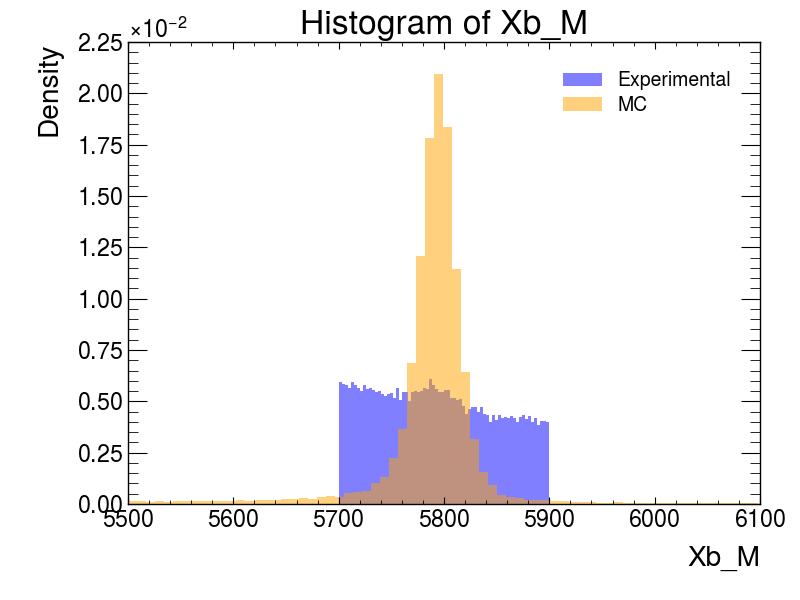
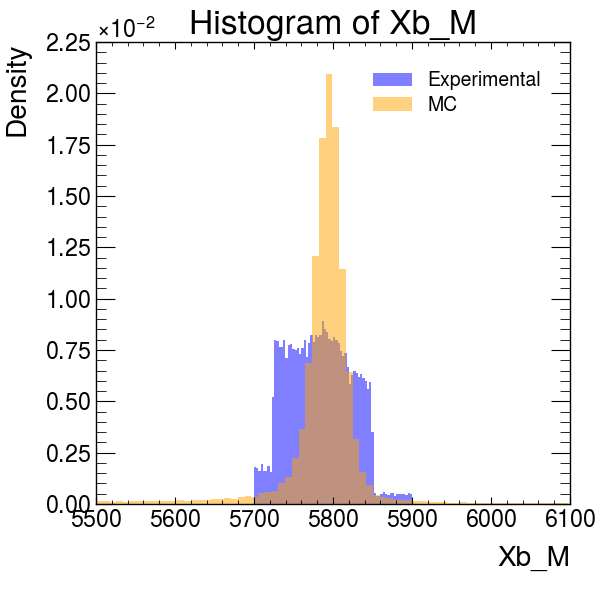
some attempts at BDT denoising

diff --git a/src/main.py b/src/main.py
@@ -5,6 +5,7 @@ import src.visualisation as vis
 import numpy as np
 import matplotlib.pyplot as plt
 import mplhep
+import src.utils as utils
 from sklearn.ensemble import GradientBoostingClassifier
 from sklearn.metrics import auc, roc_curve
 from sklearn.model_selection import KFold
@@ -51,6 +52,7 @@ def main(argv=None):
     if args.plot:
         vis.plot_var_comparison(curr_var, bkg_df, mc_df)
 
+    utils.print_tree_variables(dl.EXP_FILE, dl.EXP_TREE)
     # define classifier
     bdt = XGBClassifier(n_estimators=20)
     # prepare training data
@@ -59,19 +61,22 @@ def main(argv=None):
     mc_df['category'] = 1  # Use 1 for signal
     # Now merge the data together
     training_data = pd.concat([bkg_df, mc_df], copy=True, ignore_index=True)
-    bdt.fit(training_data[[curr_var]], training_data['category'])
+    # Define columns to use for training
+    training_columns = ["Xb_M", "Xb_IPCHI2_OWNPV", "Xb_DIRA_OWNPV", "Xb_ENDVERTEX_CHI2"]
+    bdt.fit(training_data[training_columns], training_data['category'])
     # We can now use slicing to select column 1 in the array from for all rows
-    probabilities = bdt.predict_proba(exp_df[[curr_var]])[:,1]
+    probabilities = bdt.predict_proba(exp_df[training_columns])[:,1]
     print(probabilities)
 
-    mc_df['BDT'] = bdt.predict_proba(mc_df[[curr_var]])[:,1]
-    bkg_df['BDT'] = bdt.predict_proba(bkg_df[[curr_var]])[:,1]
-    exp_df['BDT'] = bdt.predict_proba(exp_df[[curr_var]])[:,1]
-    training_data['BDT'] = bdt.predict_proba(training_data[[curr_var]])[:,1]
+    mc_df['BDT'] = bdt.predict_proba(mc_df[training_columns])[:,1]
+    bkg_df['BDT'] = bdt.predict_proba(bkg_df[training_columns])[:,1]
+    exp_df['BDT'] = bdt.predict_proba(exp_df[training_columns])[:,1]
+    training_data['BDT'] = bdt.predict_proba(training_data[training_columns])[:,1]
     if args.plot:
         vis.plot_var_comparison("BDT", exp_df, mc_df)
         vis.plot_var_comparison("BDT", bkg_df, mc_df)
     data_with_cuts_df = exp_df.query('BDT > 0.95')
+    vis.plot_var_comparison("BDT", data_with_cuts_df, mc_df)
     vis.plot_var_comparison(curr_var, data_with_cuts_df, mc_df)
         
 

diff --git a/src/visualisation.py b/src/visualisation.py
@@ -5,6 +5,7 @@ import mplhep
 # only place for plotting functions and only plotting functions
 def plot_var_from_df(var: str, df: pd.DataFrame, bins: int = 70):
     """Plot histogram for a single DataFrame variable."""
+    plt.figure(figsize=(6,6))
     plt.style.use(mplhep.style.ATLAS)
     plt.hist(df[var], bins=bins, alpha=0.7, label="Data", color="green", density=True)
     plt.xlabel(var)
@@ -12,11 +13,12 @@ def plot_var_from_df(var: str, df: pd.DataFrame, bins: int = 70):
     plt.title(f"Histogram of {var}")
     plt.legend()
     plt.savefig(f"{var}_histogram.png")
+    plt.close()
 
 
 def plot_var_comparison(var: str, exp_df: pd.DataFrame, mc_df: pd.DataFrame, bins: int = 70):
     """Plot histogram comparing experimental vs MC data for a variable."""
-
+    plt.figure(figsize=(6,6))
     plt.style.use(mplhep.style.ATLAS)
     plt.hist(exp_df[var], bins=bins, alpha=0.5, label="Experimental", color="blue", density=True)
     plt.hist(mc_df[var], bins=bins, alpha=0.5, label="MC", color="orange", density=True)
@@ -25,4 +27,12 @@ def plot_var_comparison(var: str, exp_df: pd.DataFrame, mc_df: pd.DataFrame, bin
     plt.title(f"Histogram of {var}")
     plt.legend()
     plt.savefig(f"{var}_comparison.png")
+    plt.close()
+
+def add_var_to_plot(var: str, df: pd.DataFrame, bins: int = 70, **kwargs):
+    """Add variable histogram to existing plot."""
+    plt.hist(df[var], bins=bins, alpha=0.5, label=var, density=True, **kwargs)
+    plt.xlabel("Value")
+    plt.ylabel("Density")
+    plt.title("Overlayed Histograms")
 
